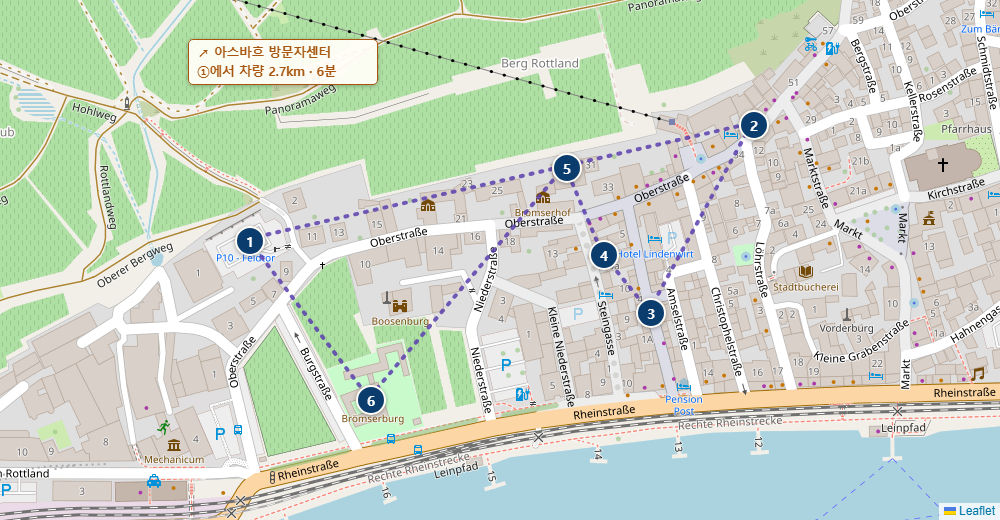
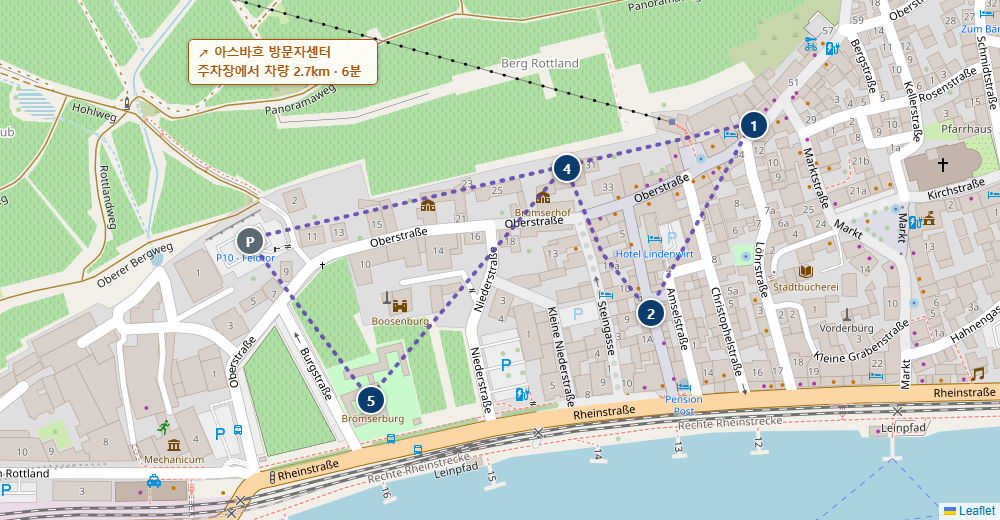
Rebuild Rudesheim map with P-pin convention, fix Frankfurt P/1 mismatch
Rudesheim's route-snapshot image still used the old numbered-pin-1
convention for parking, which no longer matched the just-fixed
route-steps text (P bookends) or the renumbered landmark cards.
Rebuilt it with a P pin plus 1/2/4/5 numbered stops.

Frankfurt's Romerplatz landmark IS the parking location
(Parkhaus Dom-Romer), but route-steps marked both bookends as "P"
while the map only ever drew numbered pins 1-4 with no P pin at all
- the mismatch the user noticed. Changed the bookends to reuse stop
number 1 (rs-repeat1) instead of a phantom P, matching the map.

diff --git a/germany-roadtrip-planner.html b/germany-roadtrip-planner.html
@@ -3901,7 +3901,7 @@ document.addEventListener('DOMContentLoaded', function(){
       <a class="walk-map-link" href="https://www.google.com/maps/dir/?api=1&travelmode=walking&origin=49.9788,7.9165&destination=49.9788,7.9165&waypoints=49.9796%2C7.9219%7C49.9783%2C7.9208%7C49.9787,7.9203%7C49.9793,7.9199%7C49.9777,7.9178" target="_blank" rel="noopener">📍 Google 지도로 도보 코스 보기(출발·도착: P10 Feldtor 주차장) · 총 약 1.3km · 도보 약 16분</a>
       <div class="route-snapshot">
         <div class="route-snapshot-media">
-          <img src="images/routes/ruedesheim.png" alt="뤼데스하임 도보 코스 지도 스냅샷" loading="lazy">
+          <img src="images/routes/ruedesheim.png?v=2" alt="뤼데스하임 도보 코스 지도 스냅샷" loading="lazy">
         </div>
         <ol class="route-steps">
         <li class="rs-p"><span class="rs-name">P10 Feldtor 주차장</span></li>
@@ -4195,11 +4195,11 @@ document.addEventListener('DOMContentLoaded', function(){
           <img src="images/routes/frankfurt.png?v=3" alt="프랑크푸르트 도보 코스 지도 스냅샷" loading="lazy">
         </div>
         <ol class="route-steps">
-        <li class="rs-p"><span class="rs-name">뢰머광장(Parkhaus Dom-Römer 출발)</span></li>
+        <li><span class="rs-name">뢰머광장(Parkhaus Dom-Römer 바로 앞)</span></li>
         <li><span class="rs-name">프랑크푸르트 대성당</span><span class="rs-seg">(300m, 4분)</span></li>
         <li><span class="rs-name">클라인마르크트할레(Kleinmarkthalle)</span><span class="rs-seg">(300m, 4분)</span></li>
         <li><span class="rs-name">아이제르너 슈텍</span><span class="rs-seg">(600m, 8분)</span></li>
-        <li class="rs-p"><span class="rs-name">뢰머광장(Parkhaus Dom-Römer 복귀)</span><span class="rs-seg">(500m, 7분)</span></li>
+        <li class="rs-repeat1"><span class="rs-name">뢰머광장(Parkhaus Dom-Römer 복귀)</span><span class="rs-seg">(500m, 7분)</span></li>
         </ol>
       </div>
       <div class="landmark-grid">

diff --git a/index.html b/index.html
@@ -3901,7 +3901,7 @@ document.addEventListener('DOMContentLoaded', function(){
       <a class="walk-map-link" href="https://www.google.com/maps/dir/?api=1&travelmode=walking&origin=49.9788,7.9165&destination=49.9788,7.9165&waypoints=49.9796%2C7.9219%7C49.9783%2C7.9208%7C49.9787,7.9203%7C49.9793,7.9199%7C49.9777,7.9178" target="_blank" rel="noopener">📍 Google 지도로 도보 코스 보기(출발·도착: P10 Feldtor 주차장) · 총 약 1.3km · 도보 약 16분</a>
       <div class="route-snapshot">
         <div class="route-snapshot-media">
-          <img src="images/routes/ruedesheim.png" alt="뤼데스하임 도보 코스 지도 스냅샷" loading="lazy">
+          <img src="images/routes/ruedesheim.png?v=2" alt="뤼데스하임 도보 코스 지도 스냅샷" loading="lazy">
         </div>
         <ol class="route-steps">
         <li class="rs-p"><span class="rs-name">P10 Feldtor 주차장</span></li>
@@ -4195,11 +4195,11 @@ document.addEventListener('DOMContentLoaded', function(){
           <img src="images/routes/frankfurt.png?v=3" alt="프랑크푸르트 도보 코스 지도 스냅샷" loading="lazy">
         </div>
         <ol class="route-steps">
-        <li class="rs-p"><span class="rs-name">뢰머광장(Parkhaus Dom-Römer 출발)</span></li>
+        <li><span class="rs-name">뢰머광장(Parkhaus Dom-Römer 바로 앞)</span></li>
         <li><span class="rs-name">프랑크푸르트 대성당</span><span class="rs-seg">(300m, 4분)</span></li>
         <li><span class="rs-name">클라인마르크트할레(Kleinmarkthalle)</span><span class="rs-seg">(300m, 4분)</span></li>
         <li><span class="rs-name">아이제르너 슈텍</span><span class="rs-seg">(600m, 8분)</span></li>
-        <li class="rs-p"><span class="rs-name">뢰머광장(Parkhaus Dom-Römer 복귀)</span><span class="rs-seg">(500m, 7분)</span></li>
+        <li class="rs-repeat1"><span class="rs-name">뢰머광장(Parkhaus Dom-Römer 복귀)</span><span class="rs-seg">(500m, 7분)</span></li>
         </ol>
       </div>
       <div class="landmark-grid">
